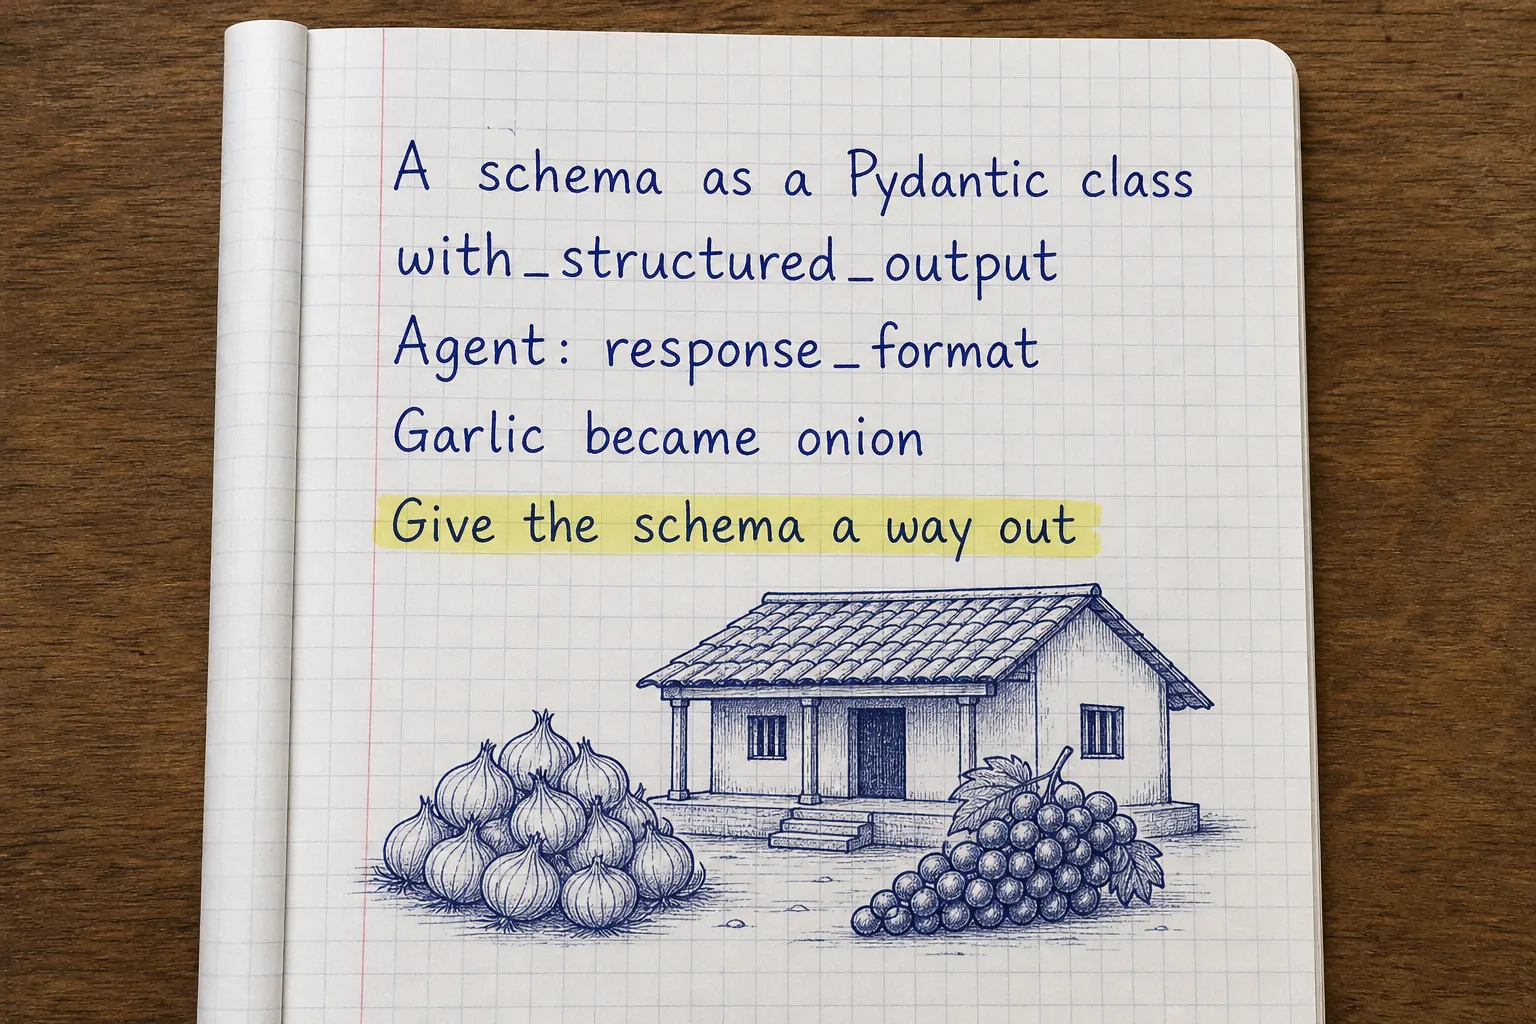
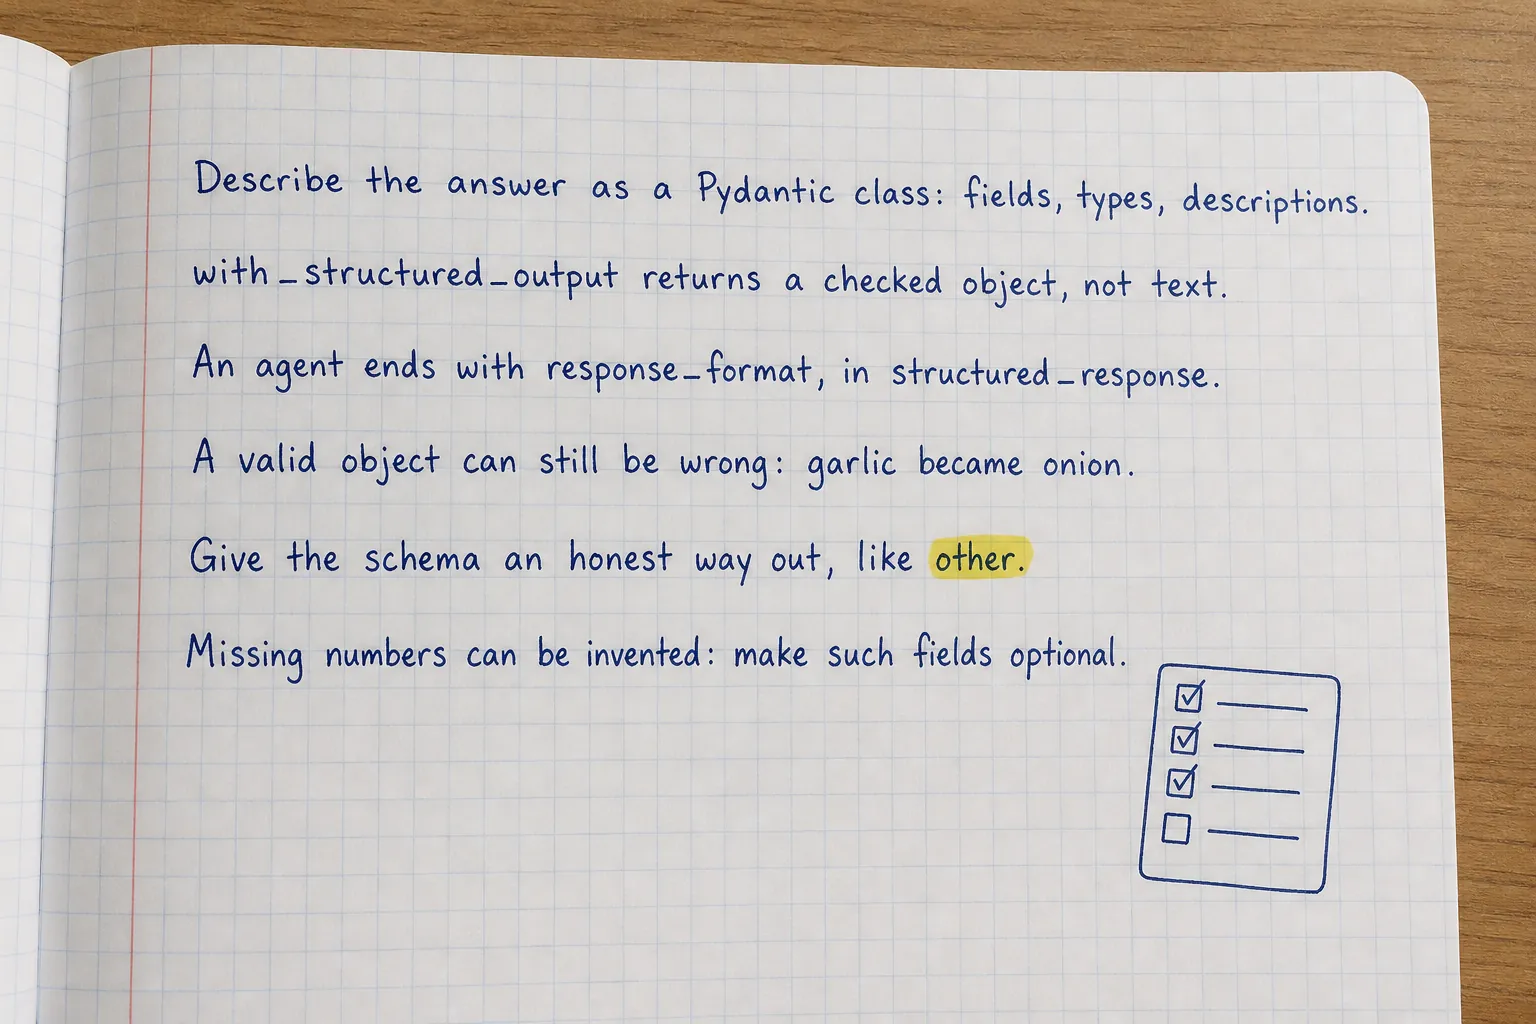
LangChain chapter 13 rewritten: plain and fuller, the schema claims tested live

diff --git a/labs/langchain/chapters/13-structured.md b/labs/langchain/chapters/13-structured.md
@@ -4,8 +4,9 @@ kreats, till next monday". The co-op's booking system cannot read sentences. It 
 crates, a number of days.
 
 Asking the model to "answer in JSON" and hoping is fragile: a missing quote, a word instead of a number, and the
-booking code crashes. **Structured output** asks for a schema instead: you describe the result as a Pydantic class,
-the model is constrained to fill it, and LangChain hands you a checked Python object.
+booking code crashes. **Structured output** asks for a schema instead: you describe the result as a **Pydantic** class (Pydantic is a Python
+library that checks data against a class's fields and types), the model is constrained to fill it, and LangChain hands
+you a checked Python object.
 
 :::mission
 Turn free text into a `Booking` object with `with_structured_output`, then build an agent whose run ends with a
@@ -22,7 +23,7 @@ class Booking(BaseModel):
     days: int = Field(description="how many days to store them")
 ```
 
-Everything here reaches the model: the class docstring, the field names, the types (an `int` must be a number; a
+Everything here reaches the model: the class docstring, the field names, the types (an `int` must be a whole number; a
 `Literal` must be one of the listed words) and each `Field` description. Pydantic then **validates** the reply: a
 `Booking` you receive always has a crop from the list and whole numbers.
 :::
@@ -36,8 +37,8 @@ missing brackets, numbers as words.
 In **June 2023** function calling (chapter 10) gave a first reliable way: describe the output as a tool's parameters.
 In **November 2023** OpenAI added **JSON mode**, which guaranteed valid JSON but not the right fields. In **August 2024**
 **Structured Outputs** went further: given a JSON Schema with `strict` set, the model's sampling is constrained so the
-output always matches it. LangChain's `with_structured_output` picks the best method each model supports, and turns the
-result into your Pydantic class.
+output always matches it. LangChain's `with_structured_output` turns the result into your Pydantic class; for OpenAI models it uses Structured
+Outputs by default (`method="json_schema"`, in the lab's langchain-openai 1.8.5).
 
 :::solved
 **A contract, not a request.** The reply has the fields and types you asked for, every time. Whether the **values** are
@@ -53,6 +54,9 @@ right is another matter, as this chapter shows.
 :::step{type=task task=extract_booking title="Your turn: free text to a Booking" file="13-structured/booking.py" line="16-20"}
 Finish `extract_booking(message)`: return `model.with_structured_output(Booking).invoke(message)`.
 
+`with_structured_output(Booking)` makes a new runnable from the model whose `invoke` returns a `Booking` instead of an
+`AIMessage`. The usual slip: `with_structured_output(Booking())` with brackets. Pass the class, not an object.
+
 Press **Check**.
 :::
 
@@ -65,13 +69,17 @@ Press **Check**.
 | `ProviderStrategy` | the provider's own structured outputs (`response_format` with a JSON schema) | models it knows support it |
 | `ToolStrategy` | a tool named `Booking` whose parameters are the schema; the model "answers" by calling it | every other model |
 
-Our gateway calls the model `ai-chat`, a name LangChain cannot look up, so it uses `ToolStrategy`: the run ends with an
+Our gateway calls the model `ai-chat`, a name LangChain cannot look up, so the agent uses `ToolStrategy` (while
+`extract_booking` above used OpenAI's Structured Outputs: two different routes to the same kind of object): the run ends with an
 `AIMessage` calling the `Booking` tool, and a `ToolMessage` confirming it. You can choose explicitly with
 `response_format=ProviderStrategy(Booking)`.
 :::
 
 :::step{type=task task=booking_agent title="Your turn: an agent that answers with a Booking" file="13-structured/booking.py" line="23-26"}
 Finish `booking_agent()`: return `create_agent("openai:ai-chat", tools=[], response_format=Booking)`.
+
+The usual slip: reading the answer from `result["messages"][-1]`. With `response_format`, the `Booking` is in
+`result["structured_response"]`.
 
 ```bash run
 cd /workspace/13-structured && python main.py
@@ -81,6 +89,8 @@ Press **Check**.
 :::
 
 :::step{type=try title="Valid, and wrong"}
+A real run (we ran it again on 25 November and got the same three bookings and the same agent messages):
+
 ```text
 $ python main.py
 'Please keep 60 crates of kanda for two weeks'          -> Booking(crop='onion', crates=60, days=14)
@@ -119,7 +129,8 @@ A member writes "keep my onions for a while". The schema requires `days: int`. W
 - [x] The model invents a number of days, and the booking looks valid
 - [ ] Pydantic asks the member
 :::explain
-A required field must be filled. Make it optional (`int | None`) when the text may not say, and ask the member.
+A required field must be filled. We tried it: `Booking(crop='onion', crates=10, days=30)`. The member gave neither
+number; both were invented. Make such fields optional (`int | None`) when the text may not say, and ask the member.
 :::
 :::
 
@@ -169,7 +180,7 @@ You can now:
 
 Next, chapter 14: a member sends a photo.
 
-:::photo{src="/lesson-images/langchain/lc-13-notes.webp" alt="Handwritten notes about structured output: A schema as a Pydantic class; with_structured_output; Agent: response_format; Garlic became onion; Give the schema a way out" ai="true"}
+:::photo{src="/lesson-images/langchain/lc-13-notes.webp" alt="Handwritten notes about structured output: Describe the answer as a Pydantic class: fields, types, descriptions. with_structured_output returns a checked object, not text. An agent ends with response_format, in structured_response. A valid object can still be wrong: garlic became onion. Give the schema an honest way out, like other. Missing numbers can be invented: make such fields optional." ai="true"}
 One page of notes for this chapter.
 :::
 :::

diff --git a/CHANGELOG.md b/CHANGELOG.md
@@ -1,5 +1,14 @@
 # Changelog
 
+## 25 November: LangChain chapter 13 rewritten (easy, a little detailed, checked)
+
+- Pydantic is explained where it first appears; both tasks list their steps and the usual slips.
+- Checked through the lab gateway: the three bookings and the agent's messages word for word; the "other" schema really
+  gives `crop='other'` for garlic; the quiz's "keep my onions for a while" really gave `crates=10, days=30` (both
+  invented), now in the explanation. Corrected: "with_structured_output picks the best method" became what the lab's
+  langchain-openai does (OpenAI Structured Outputs, `method="json_schema"`, by default), so extract_booking and the
+  agent take two different routes (provider strategy and tool strategy), now said. A new notes page.
+
 ## 25 November: LangChain chapter 12 rewritten (easy, a little detailed, checked)
 
 - Runtime, context and lakh are explained where they first appear; both tasks list their steps and the usual slips

diff --git a/REWRITE_LIST.md b/REWRITE_LIST.md
@@ -11,7 +11,7 @@ Status: **1 of 23 labs done** (13 of 319 chapters).
 | # | Lab | Title | Chapters | Status | Done on |
 |---|---|---|---|---|---|
 | 1 | rag-vector-databases | RAG and vector databases | 13 | done (13 of 13) | 25 Nov |
-| 2 | langchain | LangChain | 27 | in progress (12 of 27) | |
+| 2 | langchain | LangChain | 27 | in progress (13 of 27) | |
 | 3 | langchain4j | LangChain4j | 30 | not started | |
 | 4 | langgraph | LangGraph | 24 | not started | |
 | 5 | spring-ai | Spring AI | 20 | not started | |
